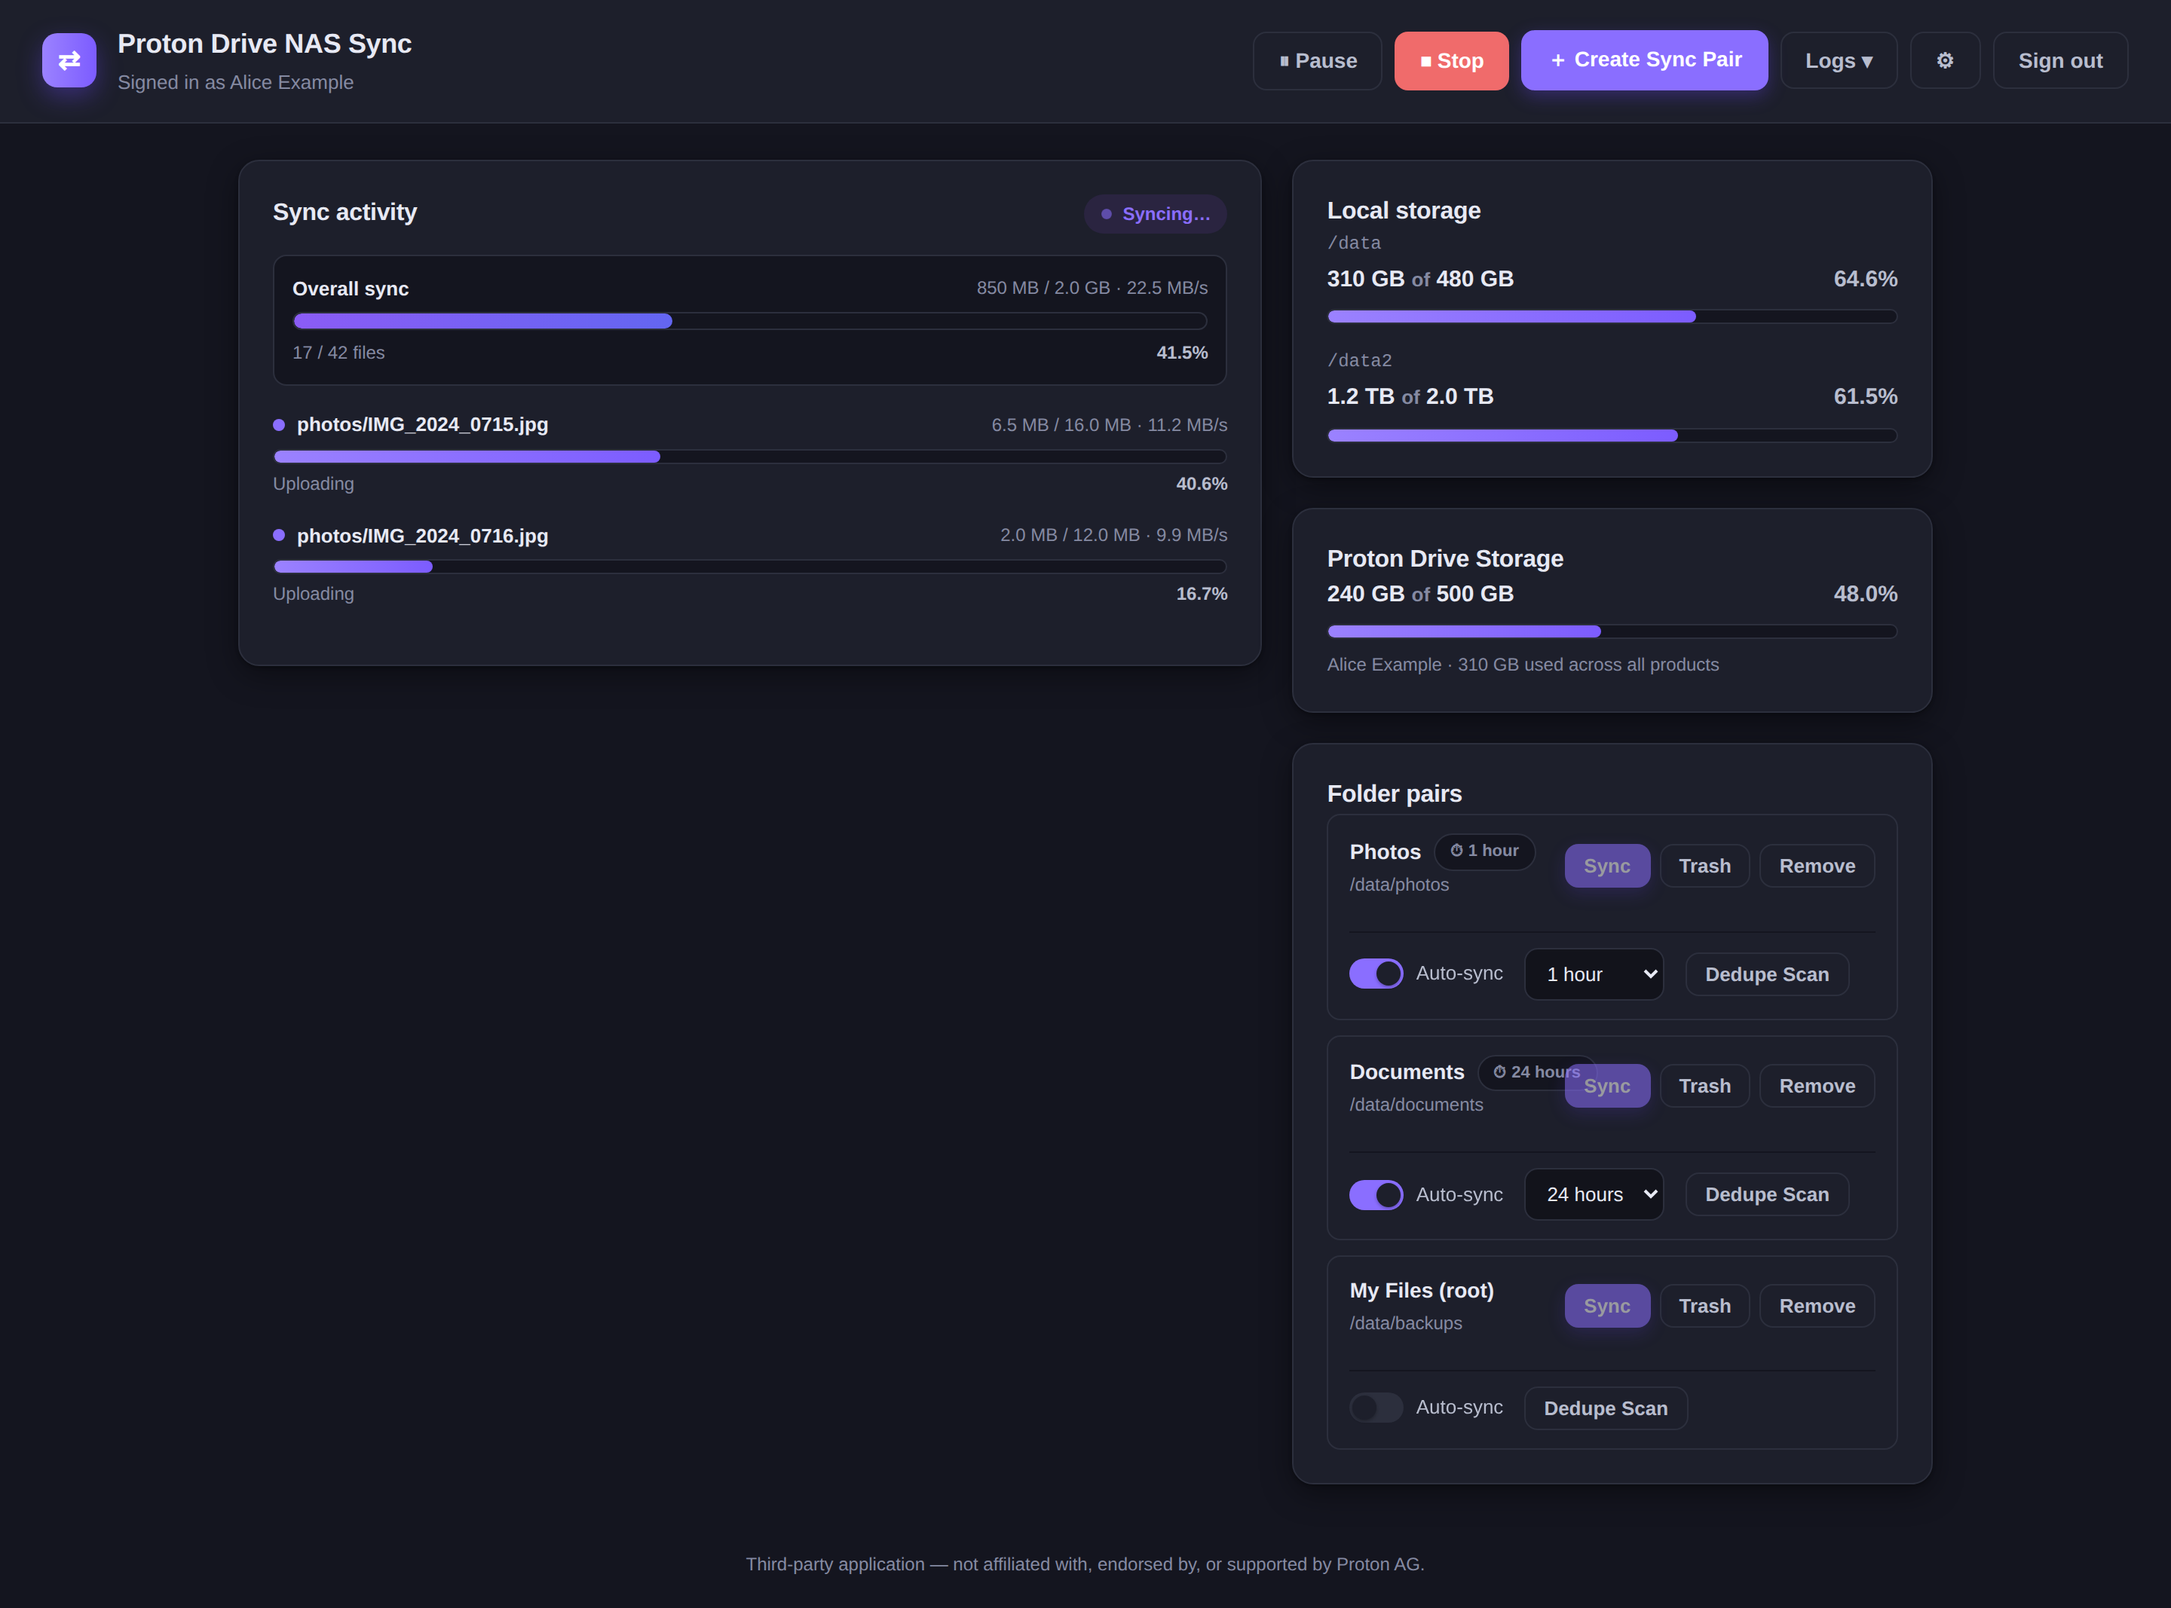
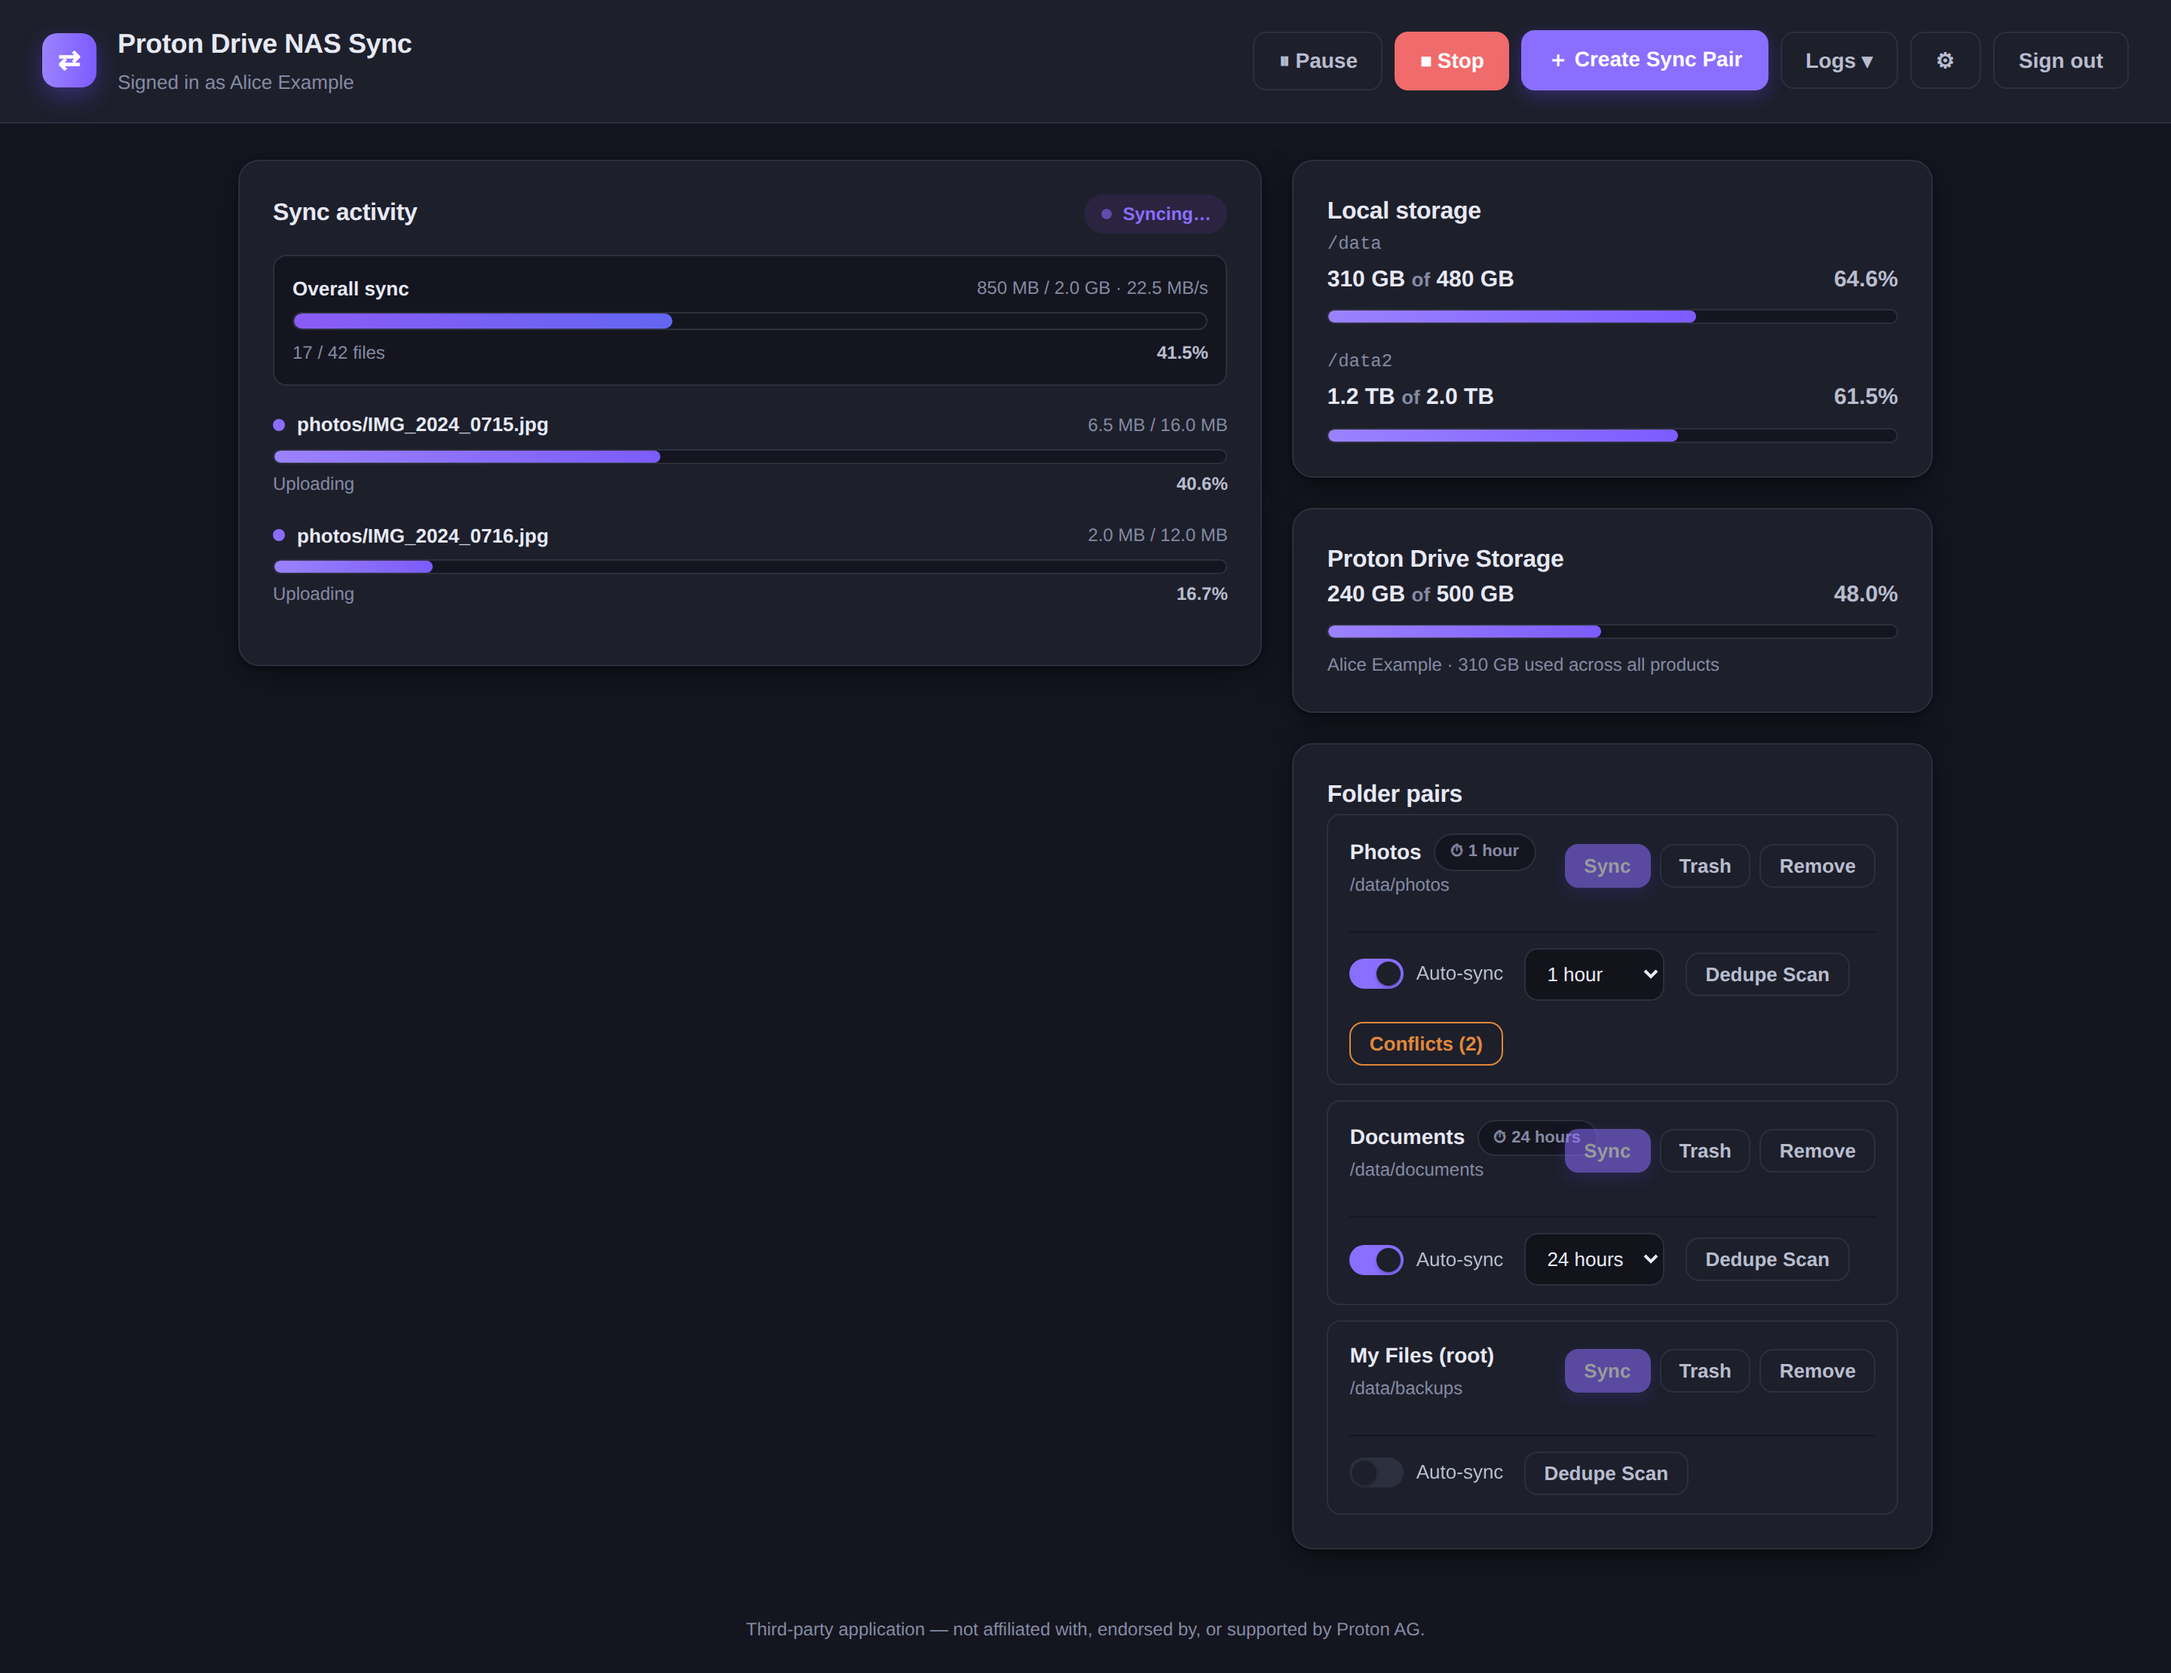
docs: document the Conflicts panel + regenerate UI screenshots
- New 'Conflicts' section in USER_GUIDE: the pending-conflict model (Drive
  version preserved as .conflict-<ts>, file frozen until resolved) and how to
  use the Conflicts button + 'Keep selected'.
- Fix stale FAQ passages that described the old 'local wins' auto-resolve.
- New 23-conflicts.png; regenerate the screenshot set so it reflects the
  current UI (Conflicts button, batch dedupe).

diff --git a/docs/USER_GUIDE.md b/docs/USER_GUIDE.md
@@ -131,6 +131,40 @@ can **Reset** an individual group or **Reset all** to bring them back into scans
 
 ---
 
+## Conflicts
+
+A **conflict** happens when the same file changes in *both* places between syncs —
+for example, you edit `notes.txt` on the NAS and a different version of `notes.txt`
+also appears in Proton Drive. The app never guesses which one you want.
+
+On the next sync it:
+
+- **preserves the Drive version** as `notes.txt.conflict-<timestamp>` next to the
+  local file,
+- **records the conflict** so it isn't forgotten, and
+- **freezes that one file** — it's skipped in later syncs until you decide. The rest
+  of the pair keeps syncing normally.
+
+A pair shows an orange **Conflicts (N)** button (next to **Dedupe Scan**) only when
+it has unresolved conflicts. Click it to review them:
+
+![Conflicts](screenshots/23-conflicts.png)
+
+Each conflict lists both versions — **Local (NAS)** and **Drive (Proton)** — with
+size, last-modified date, and content hash (SHA-1), so you can tell which is which.
+Select the version to keep and click **Keep selected**:
+
+- **Keep Local (NAS)** — re-uploads the local copy to Drive, then recycles the
+  preserved `.conflict-<ts>` copy to `.pdn-trash`.
+- **Keep Drive (Proton)** — recycles the local copy to `.pdn-trash` and restores
+  the `.conflict-<ts>` copy into place (Drive already holds it, so nothing is
+  re-uploaded).
+
+Either way the loser is only *recycled* to `.pdn-trash`, never hard-deleted, so you
+can recover it from the pair's **Trash** view if you change your mind.
+
+---
+
 ## Trash (recycle bin)
 
 Deletions never happen immediately — files are recycled first. Click **Trash** on a

diff --git a/docs/FAQ.md b/docs/FAQ.md
@@ -153,9 +153,12 @@ Each folder pair is a three-way reconcile, run on a schedule:
 
 ### What happens on a conflict?
 
-If both sides changed the same file since the last sync, the app keeps the
-**local** copy and preserves the **Drive** version alongside it as
-`filename.conflict-<timestamp>`. Nothing is silently overwritten or lost.
+If the same file changes in *both* places between syncs, the app does **not** pick
+a winner. It preserves the **Drive** version next to the local file as
+`filename.conflict-<timestamp>`, records the conflict, and freezes that one file
+(skipped in later syncs) until you resolve it. Nothing is silently overwritten or
+lost — you review both versions in the pair's **Conflicts** panel (see the user
+guide) and choose which to keep.
 
 ### What protects against accidental mass deletion?
 
@@ -219,8 +222,9 @@ Be aware of these before relying on it:
   trash is a manual step.
 - **No file version history.** Sync mirrors the *current* state; the trash is
   the recovery path, not snapshots.
-- **No automatic conflict merge.** Conflicts keep both copies (local wins, the
-  other saved as `.conflict-<ts>`); there is no content merge.
+- **No automatic conflict merge.** A conflict keeps both copies — the Drive version
+  is saved as `.conflict-<ts>` and the file is frozen until you pick a winner in the
+  **Conflicts** panel; there is no content merge.
 - **Dedupe is per-pair and local-only.** It finds duplicates within one pair's
   local folder, on demand — not across pairs, and not on the Drive side.
 - **"Monthly" means ~30 days**, a fixed interval, not a calendar month.
